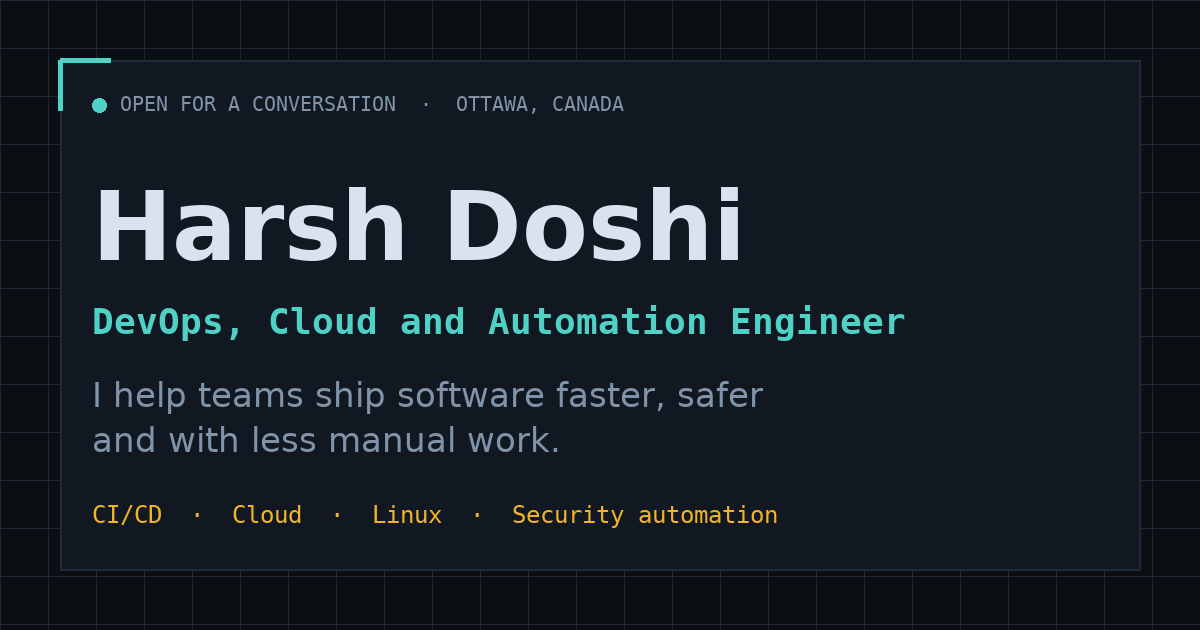
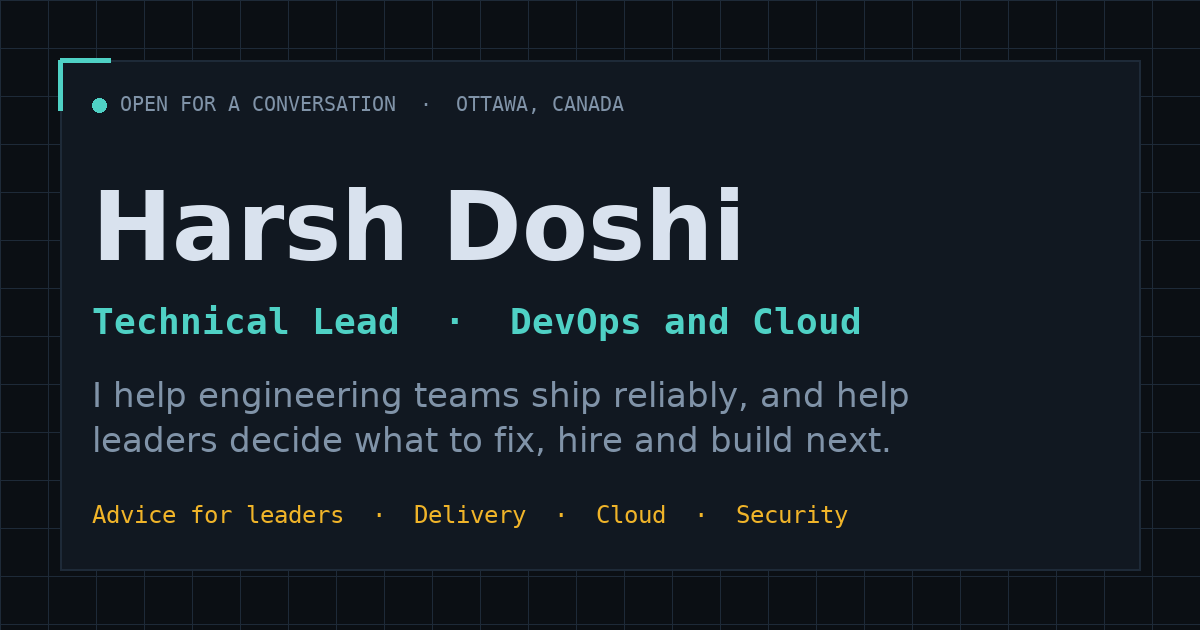
Reposition site for technical leadership and advisory work

diff --git a/index.html b/index.html
@@ -3,8 +3,8 @@
 <head>
 <meta charset="utf-8">
 <meta name="viewport" content="width=device-width, initial-scale=1">
-<title>Harsh Doshi | DevOps, Cloud &amp; Automation Engineer in Ottawa</title>
-<meta name="description" content="Harsh Doshi, DevOps and cloud engineer in Ottawa, Canada. Consulting on CI/CD pipelines, Kubernetes, Linux packaging and vulnerability management.">
+<title>Harsh Doshi | Technical Lead, DevOps &amp; Cloud in Ottawa</title>
+<meta name="description" content="Harsh Doshi, technical lead in Ottawa. Advice for engineering leaders on teams, hiring and delivery, plus hands-on DevOps, cloud and vulnerability management.">
 <link rel="canonical" href="https://doshi-harsh.github.io/">
 <meta name="robots" content="index, follow, max-image-preview:large, max-snippet:-1, max-video-preview:-1">
 <meta name="author" content="Harsh Doshi">
@@ -18,33 +18,35 @@
 <meta property="og:type" content="profile">
 <meta property="og:site_name" content="Harsh Doshi">
 <meta property="og:locale" content="en_CA">
-<meta property="og:title" content="Harsh Doshi | DevOps, Cloud &amp; Automation Engineer in Ottawa">
-<meta property="og:description" content="I help teams ship software faster, safer and with less manual work. CI/CD, cloud, Linux and security automation.">
+<meta property="og:title" content="Harsh Doshi | Technical Lead, DevOps &amp; Cloud in Ottawa">
+<meta property="og:description" content="I help engineering teams ship reliably, and help leaders decide what to fix, hire and build next.">
 <meta property="og:url" content="https://doshi-harsh.github.io/">
 <meta property="og:image" content="https://doshi-harsh.github.io/og-image.png">
 <meta property="og:image:type" content="image/png">
 <meta property="og:image:width" content="1200">
 <meta property="og:image:height" content="630">
-<meta property="og:image:alt" content="Harsh Doshi, DevOps, Cloud and Automation Engineer, Ottawa, Canada">
+<meta property="og:image:alt" content="Harsh Doshi, Technical Lead, DevOps and Cloud, Ottawa, Canada">
 <meta property="profile:first_name" content="Harsh">
 <meta property="profile:last_name" content="Doshi">
 <meta name="twitter:card" content="summary_large_image">
-<meta name="twitter:title" content="Harsh Doshi | DevOps, Cloud &amp; Automation Engineer in Ottawa">
-<meta name="twitter:description" content="I help teams ship software faster, safer and with less manual work.">
+<meta name="twitter:title" content="Harsh Doshi | Technical Lead, DevOps &amp; Cloud in Ottawa">
+<meta name="twitter:description" content="I help engineering teams ship reliably, and help leaders decide what to fix, hire and build next.">
 <meta name="twitter:image" content="https://doshi-harsh.github.io/og-image.png">
-<meta name="twitter:image:alt" content="Harsh Doshi, DevOps, Cloud and Automation Engineer, Ottawa, Canada">
+<meta name="twitter:image:alt" content="Harsh Doshi, Technical Lead, DevOps and Cloud, Ottawa, Canada">
 <script type="application/ld+json">
 {"@context":"https://schema.org","@graph":[
-{"@type":"WebSite","@id":"https://doshi-harsh.github.io/#website","url":"https://doshi-harsh.github.io/","name":"Harsh Doshi","description":"Personal site of Harsh Doshi, DevOps, cloud and automation engineer in Ottawa, Canada.","inLanguage":"en","publisher":{"@id":"https://doshi-harsh.github.io/#person"}},
-{"@type":"ProfilePage","@id":"https://doshi-harsh.github.io/#profile","url":"https://doshi-harsh.github.io/","name":"Harsh Doshi | DevOps, Cloud & Automation Engineer in Ottawa","isPartOf":{"@id":"https://doshi-harsh.github.io/#website"},"about":{"@id":"https://doshi-harsh.github.io/#person"},"mainEntity":{"@id":"https://doshi-harsh.github.io/#person"},"dateModified":"2026-10-22","primaryImageOfPage":{"@type":"ImageObject","url":"https://doshi-harsh.github.io/og-image.png","width":1200,"height":630},"inLanguage":"en"},
-{"@type":"Person","@id":"https://doshi-harsh.github.io/#person","name":"Harsh Doshi","givenName":"Harsh","familyName":"Doshi","url":"https://doshi-harsh.github.io/","email":"me@iamharshdoshi.com","jobTitle":"DevOps, Cloud and Automation Engineer","description":"Senior engineer in Ottawa helping teams ship software faster and more safely: CI/CD, cloud, Linux packaging, vulnerability management and automation.","image":"https://doshi-harsh.github.io/og-image.png","address":{"@type":"PostalAddress","addressLocality":"Ottawa","addressRegion":"ON","addressCountry":"CA"},"sameAs":["https://github.com/doshi-harsh"],"knowsLanguage":"en","knowsAbout":["DevOps","CI/CD pipelines","Kubernetes","Docker","Terraform","Cloud infrastructure","AWS","Azure","Google Cloud","Debian packaging","Vulnerability management","CVE triage","Test automation","Scrum"],
+{"@type":"WebSite","@id":"https://doshi-harsh.github.io/#website","url":"https://doshi-harsh.github.io/","name":"Harsh Doshi","description":"Personal site of Harsh Doshi, technical lead and DevOps engineer in Ottawa, Canada.","inLanguage":"en","publisher":{"@id":"https://doshi-harsh.github.io/#person"}},
+{"@type":"ProfilePage","@id":"https://doshi-harsh.github.io/#profile","url":"https://doshi-harsh.github.io/","name":"Harsh Doshi | Technical Lead, DevOps & Cloud in Ottawa","isPartOf":{"@id":"https://doshi-harsh.github.io/#website"},"about":{"@id":"https://doshi-harsh.github.io/#person"},"mainEntity":{"@id":"https://doshi-harsh.github.io/#person"},"dateModified":"2026-10-22","primaryImageOfPage":{"@type":"ImageObject","url":"https://doshi-harsh.github.io/og-image.png","width":1200,"height":630},"inLanguage":"en"},
+{"@type":"Person","@id":"https://doshi-harsh.github.io/#person","name":"Harsh Doshi","givenName":"Harsh","familyName":"Doshi","url":"https://doshi-harsh.github.io/","email":"me@iamharshdoshi.com","jobTitle":"Technical Lead, DevOps and Cloud","description":"Technical lead in Ottawa with experience as a CTO and project manager. Advises engineering leaders on teams, hiring, product direction and delivery, and works hands-on in DevOps, cloud, Linux packaging and vulnerability management.","image":"https://doshi-harsh.github.io/og-image.png","address":{"@type":"PostalAddress","addressLocality":"Ottawa","addressRegion":"ON","addressCountry":"CA"},"sameAs":["https://github.com/doshi-harsh"],"knowsLanguage":"en","knowsAbout":["Technical leadership","Engineering management","Technical due diligence","Hiring and team design","Product roadmap","Project management","DevOps","CI/CD pipelines","Kubernetes","Cloud infrastructure","AWS","Azure","Google Cloud","Debian packaging","Vulnerability management","Scrum"],
 "makesOffer":[
-{"@type":"Offer","itemOffered":{"@type":"Service","name":"Delivery review","description":"Review of pipelines, builds and release steps with a ranked list of fixes."}},
-{"@type":"Offer","itemOffered":{"@type":"Service","name":"Pipeline and automation build","description":"Hands-on CI/CD, scheduled jobs and release automation."}},
-{"@type":"Offer","itemOffered":{"@type":"Service","name":"Cloud and Kubernetes consulting","description":"Container and infrastructure-as-code setup, hosting-to-cloud migration, permissions and secrets."}},
+{"@type":"Offer","itemOffered":{"@type":"Service","name":"Technical due diligence","description":"An honest review of a product, its team and its delivery process before an investment, acquisition or major commitment."}},
+{"@type":"Offer","itemOffered":{"@type":"Service","name":"Hiring and team design","description":"Which roles and skills each kind of work needs, how to hire for them, how to structure the team and grow managers."}},
+{"@type":"Offer","itemOffered":{"@type":"Service","name":"Product and roadmap advice","description":"What to build, fix or stop next, and what each option means for customers."}},
+{"@type":"Offer","itemOffered":{"@type":"Service","name":"Delivery and project review","description":"Review of how projects are planned, tracked and costed, with a ranked list of fixes."}},
 {"@type":"Offer","itemOffered":{"@type":"Service","name":"Vulnerability workflow","description":"A working process for scanning, triage, mitigation and reporting."}},
 {"@type":"Offer","itemOffered":{"@type":"Service","name":"Linux packaging and images","description":"Debian packaging, repositories and reproducible image builds."}},
-{"@type":"Offer","itemOffered":{"@type":"Service","name":"Team enablement","description":"Code review practices, agile delivery and mentoring."}}]}
+{"@type":"Offer","itemOffered":{"@type":"Service","name":"Pipeline and automation build","description":"Hands-on CI/CD, scheduled jobs and release automation."}},
+{"@type":"Offer","itemOffered":{"@type":"Service","name":"Cloud and Kubernetes consulting","description":"Container and infrastructure-as-code setup, hosting-to-cloud migration, permissions and secrets."}}]}
 ]}
 </script>
 <style>
@@ -82,6 +84,8 @@ nav a:hover{color:var(--accent)}
 .tagline{display:inline-block;font:11px/1 var(--mono);letter-spacing:.12em;text-transform:uppercase;color:var(--accent2);margin-bottom:10px}
 .panel .result{margin-top:12px;padding-top:10px;border-top:1px dashed var(--line);color:var(--fg);font-size:.9rem}
 .panel .result b{display:block;font:11px/1 var(--mono);letter-spacing:.12em;text-transform:uppercase;color:var(--accent);margin-bottom:4px}
+.sub{margin:28px 0 12px;font:600 13px/1.4 var(--mono);color:var(--accent2);letter-spacing:.08em;text-transform:uppercase}
+.sub:first-of-type{margin-top:0}
 .note{margin:16px 0 0;color:var(--muted);font:13px/1.6 var(--mono)}
 .ask{margin:0 0 18px;padding:0;list-style:none;display:grid;gap:6px;color:var(--muted);font-size:.95rem}
 .ask li::before{content:"▸ ";color:var(--accent)}
@@ -192,8 +196,8 @@ footer{margin-top:40px;padding-top:16px;border-top:1px solid var(--line);font:12
   </div>
 
   <header>
-    <h1><span class="name">Harsh Doshi, DevOps and cloud engineer</span> I help teams ship software <em>faster, safer</em> and with less manual work.</h1>
-    <p class="lead">Senior engineer with over a decade across DevOps, cloud, Linux and security automation. I turn slow, risky release processes into pipelines you can trust, and I explain what I build so the whole team can run it.</p>
+    <h1><span class="name">Harsh Doshi, technical lead and DevOps engineer</span> I help engineering teams <em>ship reliably</em>, and help leaders decide what to fix, hire and build next.</h1>
+    <p class="lead">Over a decade across DevOps, cloud, Linux and security automation, plus experience running engineering and projects as a CTO and project manager. I work hands-on with teams, and I advise leaders on delivery, hiring and product direction.</p>
     <div class="links">
       <a class="btn primary" href="mailto:me@iamharshdoshi.com?subject=Hello%20Harsh">Email me</a>
       <a class="btn" href="https://github.com/doshi-harsh">GitHub</a>
@@ -218,6 +222,7 @@ footer{margin-top:40px;padding-top:16px;border-top:1px solid var(--line);font:12
     </div>
     <div class="stats">
       <div class="stat"><b data-count="12" data-suffix="+">12+</b><span>Years building</span></div>
+      <div class="stat"><b>CTO</b><span>Has run engineering and projects</span></div>
       <div class="stat"><b data-count="3">3</b><span>Clouds: AWS, Azure, GCP</span></div>
       <div class="stat"><b>CSM</b><span>Certified Scrum Master</span></div>
     </div>
@@ -226,24 +231,27 @@ footer{margin-top:40px;padding-top:16px;border-top:1px solid var(--line);font:12
   <section id="help">
     <h2>How I can help</h2>
     <div class="grid">
-      <div class="panel"><div class="n">01</div><h3>Automate delivery</h3><p>CI/CD pipelines, scheduled jobs and release automation that cut manual steps and make every build repeatable.</p></div>
-      <div class="panel"><div class="n">02</div><h3>Build on the cloud</h3><p>Kubernetes, containers and infrastructure as code on AWS, Azure and GCP, with sensible permissions and cost awareness.</p></div>
-      <div class="panel"><div class="n">03</div><h3>Secure what you ship</h3><p>Vulnerability scanning, triage and reporting, certificates and identity, so known risks are found and fixed early.</p></div>
-      <div class="panel"><div class="n">04</div><h3>Work with Linux</h3><p>Debian packaging, repositories, image builds and the details that keep a distribution reliable.</p></div>
-      <div class="panel"><div class="n">05</div><h3>Test with confidence</h3><p>Automated and hardware-in-the-loop testing, with reports people actually read.</p></div>
-      <div class="panel"><div class="n">06</div><h3>Lead and unblock</h3><p>Agile delivery, careful code review and mentoring. I'm a certified Scrum Master who still writes code.</p></div>
+      <div class="panel"><div class="n">01</div><h3>Lead and unblock teams</h3><p>Planning, agile delivery, careful reviews and coaching for engineers and managers. A certified Scrum Master who still writes code.</p></div>
+      <div class="panel"><div class="n">02</div><h3>Advise on product and roadmap</h3><p>What to build, fix or stop next, and what each choice means for your customers.</p></div>
+      <div class="panel"><div class="n">03</div><h3>Hire and grow teams</h3><p>Which skills each kind of work needs, how to hire for them, and how to help managers grow.</p></div>
+      <div class="panel"><div class="n">04</div><h3>Automate delivery</h3><p>CI/CD pipelines, scheduled jobs and release automation that cut manual steps and make every build repeatable.</p></div>
+      <div class="panel"><div class="n">05</div><h3>Secure what you ship</h3><p>Vulnerability scanning, triage and reporting, so known risks are found and fixed early.</p></div>
+      <div class="panel"><div class="n">06</div><h3>Build on Linux and the cloud</h3><p>Debian packaging and image builds, plus Kubernetes and infrastructure as code on AWS, Azure and GCP.</p></div>
     </div>
   </section>
 
   <section id="blockers">
     <h2>Sound familiar?</h2>
     <ul class="blockers">
+      <li>Hiring is slow and you are not sure which skills the work really needs.</li>
+      <li>The roadmap keeps slipping and nobody can say why.</li>
+      <li>Project costs and timelines are guesses.</li>
+      <li>A new lead or manager needs help growing into the role.</li>
+      <li>You face an investment, acquisition or big commitment and need an honest technical read.</li>
       <li>Releases are manual, slow and stressful.</li>
-      <li>A build works on one machine and fails on another.</li>
       <li>Security findings pile up and nobody owns them.</li>
       <li>The application is a monolith that is hard to change and scale.</li>
       <li>Cloud access, permissions and secrets have grown messy.</li>
-      <li>Tests are too slow or too flaky to trust.</li>
       <li>Package and image builds are fragile and hard to reproduce.</li>
       <li>The team is capable but lacks time to fix the plumbing.</li>
     </ul>
@@ -251,13 +259,19 @@ footer{margin-top:40px;padding-top:16px;border-top:1px solid var(--line);font:12
 
   <section id="services">
     <h2>Ways to work together</h2>
+    <h3 class="sub">Advice for leaders and founders</h3>
     <div class="grid">
-      <div class="panel"><h3>Delivery review</h3><p>I look at your pipelines, builds and release steps and give you a ranked list of fixes, with the quick wins first.</p></div>
-      <div class="panel"><h3>Pipeline and automation build</h3><p>Hands-on CI/CD, scheduled jobs and release automation, documented so your team owns it afterwards.</p></div>
-      <div class="panel"><h3>Cloud and Kubernetes</h3><p>Container and infrastructure-as-code setup, hosting-to-cloud moves, and tidy permissions and secrets.</p></div>
+      <div class="panel"><h3>Technical due diligence</h3><p>An honest review of a product, its team and its delivery process before you invest, acquire or commit. You get risks, strengths and next steps in plain language.</p></div>
+      <div class="panel"><h3>Hiring and team design</h3><p>Which roles and skills each kind of work needs, how to hire for them, how to structure the team, and how to help managers grow.</p></div>
+      <div class="panel"><h3>Product and roadmap advice</h3><p>A clear view of what to build, fix or stop next, and what each option means for your customers.</p></div>
+      <div class="panel"><h3>Delivery and project review</h3><p>How your projects are planned, tracked and costed, plus a ranked list of fixes with the quick wins first.</p></div>
+    </div>
+    <h3 class="sub">Hands-on engineering</h3>
+    <div class="grid">
       <div class="panel"><h3>Vulnerability workflow</h3><p>A working process for scanning, triage, mitigation and reporting, so known risks are tracked and closed.</p></div>
       <div class="panel"><h3>Linux packaging and images</h3><p>Debian packaging, repositories and reproducible image builds.</p></div>
-      <div class="panel"><h3>Team enablement</h3><p>Code review practices, agile delivery and mentoring, so the skills stay when I leave.</p></div>
+      <div class="panel"><h3>Pipeline and automation build</h3><p>Hands-on CI/CD, scheduled jobs and release automation, documented so your team owns it afterwards.</p></div>
+      <div class="panel"><h3>Cloud and Kubernetes</h3><p>Container and infrastructure-as-code setup, hosting-to-cloud moves, and tidy permissions and secrets.</p></div>
     </div>
     <p class="note">Engagements can start with a short conversation. Scope and terms are agreed up front.</p>
   </section>
@@ -265,6 +279,7 @@ footer{margin-top:40px;padding-top:16px;border-top:1px solid var(--line);font:12
   <section id="record">
     <h2>Track record</h2>
     <div class="grid">
+      <div class="panel"><span class="tagline">Leadership</span><p>Served as CTO and project manager at a software and digital marketing company: managed client projects and status reporting, introduced an agile workflow, led web, .NET and hybrid mobile projects, and ran hosting, cloud servers and billing.</p><p class="result"><b>Result</b>Teams worked to an agile cadence, and clients received regular status updates and project reports.</p></div>
       <div class="panel"><span class="tagline">Architecture</span><p>Broke a monolithic web application into containerised microservices on Kubernetes, improving developer workflow and scalability.</p><p class="result"><b>Result</b>Faster developer workflow, easier scaling and quicker processing.</p></div>
       <div class="panel"><span class="tagline">Automation</span><p>Built fully automated deployment pipelines with Git hooks, webhooks and PowerShell, with deployment logs posted to Slack.</p><p class="result"><b>Result</b>Releases ship through one repeatable path, and every deployment is visible to the whole team.</p></div>
       <div class="panel"><span class="tagline">Cloud</span><p>Ran production infrastructure on Google Cloud: VMs, SQL, storage, API management, network security and billing. Moved client applications from VPS hosting to AWS and Google Cloud.</p><p class="result"><b>Result</b>Applications running on managed cloud infrastructure instead of single hosts.</p></div>
@@ -274,7 +289,7 @@ footer{margin-top:40px;padding-top:16px;border-top:1px solid var(--line);font:12
       <div class="panel"><span class="tagline">Web and data</span><p>Led CMS and Laravel platforms, integrated email and SMS services, queried large fundraising and engagement datasets with SQL, and brought sites up to WCAG 2.0 accessibility.</p><p class="result"><b>Result</b>More accessible sites with stronger organic search visibility.</p></div>
       <div class="panel"><span class="tagline">People</span><p>Introduced agile workflows, led small teams and mentored junior developers and analysts.</p><p class="result"><b>Result</b>A shared delivery rhythm, and junior engineers supported through hands-on mentoring.</p></div>
     </div>
-    <p class="note">Industries: telecom and security, healthcare software, open-source Linux, large public web platforms.</p>
+    <p class="note">Industries: telecom and security, healthcare software, open-source Linux, software and digital marketing, large public web platforms.</p>
   </section>
 
   <section id="how">
@@ -301,11 +316,11 @@ footer{margin-top:40px;padding-top:16px;border-top:1px solid var(--line);font:12
 
   <section class="cta" id="contact">
     <h2>Let's talk</h2>
-    <p>Have a pipeline that keeps breaking, a release process that takes too long, or a security backlog nobody owns? Send me a few lines and I'll tell you honestly whether and how I can help.</p>
+    <p>Whether it's a pipeline that keeps breaking, a hiring or roadmap decision, or a project that needs an outside view, send me a few lines and I'll tell you honestly whether and how I can help. I read every message and reply within a few days.</p>
     <ul class="ask">
-      <li>What is blocking you right now</li>
-      <li>Your stack (cloud, CI system, languages)</li>
-      <li>Your timeline and who will work with me</li>
+      <li>What you are trying to decide or fix right now</li>
+      <li>Your team and stack (size, cloud, tools)</li>
+      <li>Your timeline, and whether you want advice, a review or hands-on help</li>
     </ul>
     <div class="links">
       <a class="btn primary" href="mailto:me@iamharshdoshi.com?subject=Consultation%20enquiry">me@iamharshdoshi.com</a>
